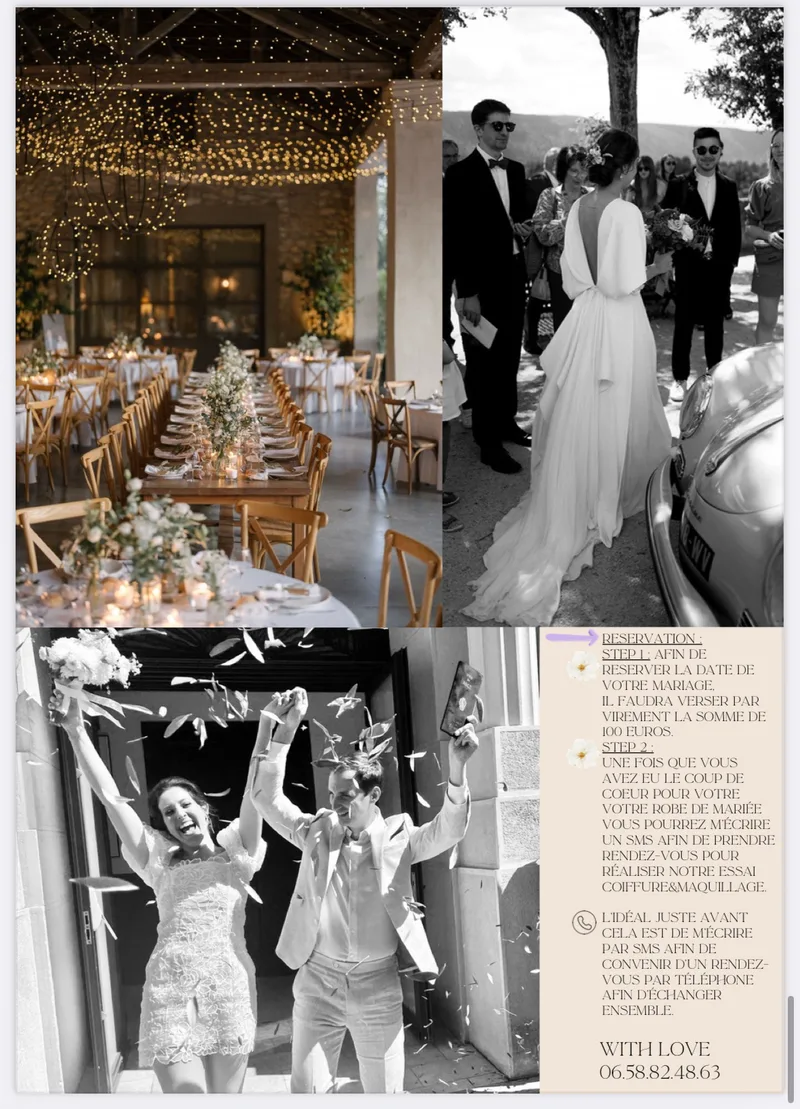
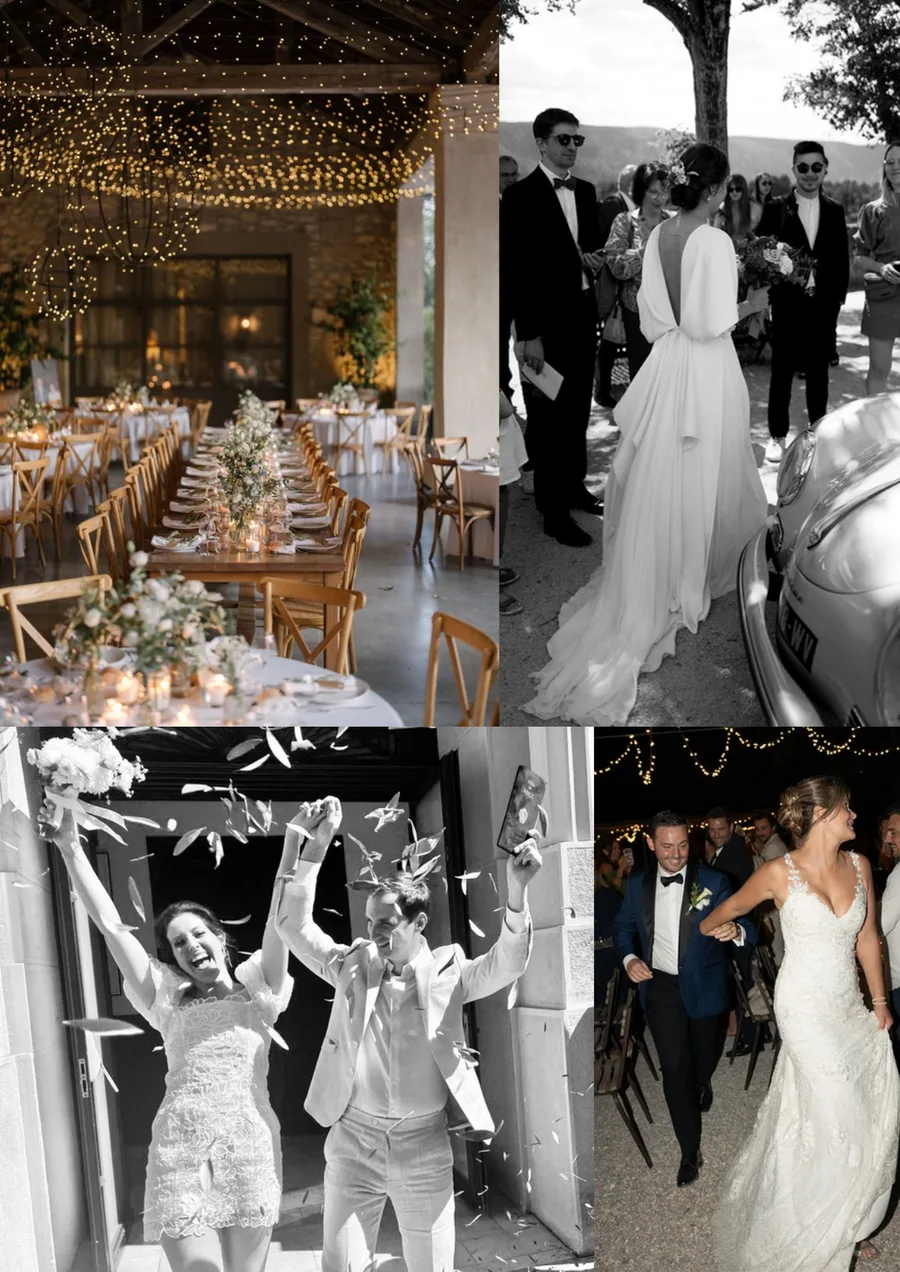
Elody Bliss : nouvelle photo de fin sur la page Contact, telephone au format international partout

diff --git a/clients/elody-bliss/contact.html b/clients/elody-bliss/contact.html
@@ -608,12 +608,12 @@ html body .cta-band p,html body footer p,html body footer li,html body footer a{
 <h2 style="margin-bottom:8px" data-i18n="ct_res_h">How to book your date</h2>
 </div>
 <div class="galerie-clic" style="display:grid;grid-template-columns:repeat(auto-fit,minmax(280px,1fr));gap:32px;align-items:center;margin-top:24px">
-<img src="images/contact-reservation.webp" alt="Reservation d'une date de mariage avec Elody Bliss, mode d'emploi" width="800" height="1109" loading="lazy" decoding="async" style="width:100%;height:auto;border-radius:8px;cursor:pointer" onclick="openLightbox(this)">
+<img src="images/contact-reservation.webp" alt="Wedding moments styled by Elody Bliss" width="900" height="1272" loading="lazy" decoding="async" style="width:100%;height:auto;border-radius:8px;cursor:pointer" onclick="openLightbox(this)">
 <div>
 <p data-i18n="ct_res_1"><strong>Step 1.</strong> To secure your wedding date, a 100&nbsp;euro deposit is paid by bank transfer.</p>
 <p data-i18n="ct_res_2"><strong>Step 2.</strong> Once you have fallen in love with your wedding dress, text me to arrange your hair and makeup trial appointment.</p>
 <p data-i18n="ct_res_3">Ideally, just before that, send me a text so we can set up a phone call and talk through your wishes together.</p>
-<p style="margin-bottom:0"><a href="tel:+33658824863" class="btn-primary" style="margin-top:8px"><i data-lucide="phone" style="width:18px;height:18px"></i> 06 58 82 48 63</a></p>
+<p style="margin-bottom:0"><a href="tel:+33658824863" class="btn-primary" style="margin-top:8px"><i data-lucide="phone" style="width:18px;height:18px"></i> +33 6 58 82 48 63</a></p>
 </div>
 </div>
 </div>
@@ -653,7 +653,7 @@ html body .cta-band p,html body footer p,html body footer li,html body footer a{
 <div>
 <h4>Contact</h4>
 <ul>
-<li><a href="tel:+33658824863"><i data-lucide="phone" style="width:14px;height:14px;vertical-align:middle"></i> 06 58 82 48 63</a></li>
+<li><a href="tel:+33658824863"><i data-lucide="phone" style="width:14px;height:14px;vertical-align:middle"></i> +33 6 58 82 48 63</a></li>
 <li><a href="mailto:elodybliss@gmail.com"><i data-lucide="mail" style="width:14px;height:14px;vertical-align:middle"></i> elodybliss@gmail.com</a></li>
 <li><i data-lucide="map-pin" style="width:14px;height:14px;vertical-align:middle"></i> Av. de Saint-Jerome, 13013 Marseille</li>
 <li data-i18n="ft_appt"><i data-lucide="clock" style="width:14px;height:14px;vertical-align:middle"></i> By appointment</li>

diff --git a/clients/elody-bliss/index.html b/clients/elody-bliss/index.html
@@ -801,7 +801,7 @@ html body .cta-band p,html body footer p,html body footer li,html body footer a{
 <h2 class="titre-xl" data-i18n="pfc_h2">Book your date with <span class="script">Elody</span></h2>
 <p style="max-width:560px;margin:12px auto 28px" data-i18n="pfc_p">Call me to talk about your theme, your wishes and book your trial in my private studio in Marseille.</p>
 <div style="display:flex;gap:16px;justify-content:center;flex-wrap:wrap">
-<a href="tel:+33658824863" class="btn-primary" aria-label="Appeler Elody Bliss"><i data-lucide="phone" style="width:18px;height:18px"></i> 06 58 82 48 63</a>
+<a href="tel:+33658824863" class="btn-primary" aria-label="Appeler Elody Bliss"><i data-lucide="phone" style="width:18px;height:18px"></i> +33 6 58 82 48 63</a>
 <a href="/contact" class="btn-secondary" aria-label="Aller au formulaire de contact" data-i18n="pfc_btn"><i data-lucide="mail" style="width:18px;height:18px"></i> Contact form</a>
 </div>
 </div>
@@ -852,7 +852,7 @@ html body .cta-band p,html body footer p,html body footer li,html body footer a{
 <div>
 <h4>Contact</h4>
 <ul>
-<li><a href="tel:+33658824863"><i data-lucide="phone" style="width:14px;height:14px;vertical-align:middle"></i> 06 58 82 48 63</a></li>
+<li><a href="tel:+33658824863"><i data-lucide="phone" style="width:14px;height:14px;vertical-align:middle"></i> +33 6 58 82 48 63</a></li>
 <li><a href="mailto:elodybliss@gmail.com"><i data-lucide="mail" style="width:14px;height:14px;vertical-align:middle"></i> elodybliss@gmail.com</a></li>
 <li><i data-lucide="map-pin" style="width:14px;height:14px;vertical-align:middle"></i> Av. de Saint-Jerome, 13013 Marseille</li>
 <li data-i18n="ft_appt"><i data-lucide="clock" style="width:14px;height:14px;vertical-align:middle"></i> By appointment</li>

diff --git a/clients/elody-bliss/massage-hair-spa.html b/clients/elody-bliss/massage-hair-spa.html
@@ -596,7 +596,7 @@ html body .cta-band p,html body footer p,html body footer li,html body footer a{
 <div style="text-align:center;margin-top:40px;padding:40px;background:var(--bg-secondary);border-radius:12px">
 <h2 data-i18n="ms_cta_h">Book your well-being treatment</h2>
 <p data-i18n="ms_cta_p">Treat yourself to a gentle luxury moment in the private studio in Marseille.</p>
-<a href="tel:+33658824863" class="btn-primary"><i data-lucide="phone" style="width:18px;height:18px"></i> 06 58 82 48 63</a>
+<a href="tel:+33658824863" class="btn-primary"><i data-lucide="phone" style="width:18px;height:18px"></i> +33 6 58 82 48 63</a>
 </div>
 </div></div></section>
 <section><div class="container" data-aos="fade-up"><h2 style="text-align:center;margin-bottom:8px" data-i18n="ms_disc_h">Discover also</h2><div class="discover-grid">
@@ -638,7 +638,7 @@ html body .cta-band p,html body footer p,html body footer li,html body footer a{
 <div>
 <h4>Contact</h4>
 <ul>
-<li><a href="tel:+33658824863"><i data-lucide="phone" style="width:14px;height:14px;vertical-align:middle"></i> 06 58 82 48 63</a></li>
+<li><a href="tel:+33658824863"><i data-lucide="phone" style="width:14px;height:14px;vertical-align:middle"></i> +33 6 58 82 48 63</a></li>
 <li><a href="mailto:elodybliss@gmail.com"><i data-lucide="mail" style="width:14px;height:14px;vertical-align:middle"></i> elodybliss@gmail.com</a></li>
 <li><i data-lucide="map-pin" style="width:14px;height:14px;vertical-align:middle"></i> Av. de Saint-Jerome, 13013 Marseille</li>
 <li data-i18n="ft_appt"><i data-lucide="clock" style="width:14px;height:14px;vertical-align:middle"></i> By appointment</li>

diff --git a/clients/elody-bliss/coloration.html b/clients/elody-bliss/coloration.html
@@ -589,7 +589,7 @@ html body .cta-band p,html body footer p,html body footer li,html body footer a{
 <div style="text-align:center;margin-top:40px;padding:40px;background:var(--bg-secondary);border-radius:12px">
 <h2 data-i18n="col_cta_h">Book an appointment for your color</h2>
 <p data-i18n="col_cta_p">Give your hair a luminous, healthy color.</p>
-<a href="tel:+33658824863" class="btn-primary"><i data-lucide="phone" style="width:18px;height:18px"></i> 06 58 82 48 63</a>
+<a href="tel:+33658824863" class="btn-primary"><i data-lucide="phone" style="width:18px;height:18px"></i> +33 6 58 82 48 63</a>
 </div>
 </div></div></section>
 <section><div class="container" data-aos="fade-up"><h2 style="text-align:center;margin-bottom:8px" data-i18n="col_disc_h">Discover also</h2><div class="discover-grid">
@@ -631,7 +631,7 @@ html body .cta-band p,html body footer p,html body footer li,html body footer a{
 <div>
 <h4>Contact</h4>
 <ul>
-<li><a href="tel:+33658824863"><i data-lucide="phone" style="width:14px;height:14px;vertical-align:middle"></i> 06 58 82 48 63</a></li>
+<li><a href="tel:+33658824863"><i data-lucide="phone" style="width:14px;height:14px;vertical-align:middle"></i> +33 6 58 82 48 63</a></li>
 <li><a href="mailto:elodybliss@gmail.com"><i data-lucide="mail" style="width:14px;height:14px;vertical-align:middle"></i> elodybliss@gmail.com</a></li>
 <li><i data-lucide="map-pin" style="width:14px;height:14px;vertical-align:middle"></i> Av. de Saint-Jerome, 13013 Marseille</li>
 <li data-i18n="ft_appt"><i data-lucide="clock" style="width:14px;height:14px;vertical-align:middle"></i> By appointment</li>

diff --git a/clients/elody-bliss/maquillage-mariee.html b/clients/elody-bliss/maquillage-mariee.html
@@ -667,7 +667,7 @@ html body .cta-band p,html body footer p,html body footer li,html body footer a{
 <h2 data-i18n="mq_cta_h">Book your makeup trial</h2>
 <p data-i18n="mq_cta_p">Your big day deserves the best version of yourself.</p>
 <div style="display:flex;gap:16px;justify-content:center;flex-wrap:wrap;margin-top:20px">
-<a href="tel:+33658824863" class="btn-primary"><i data-lucide="phone" style="width:18px;height:18px"></i> 06 58 82 48 63</a>
+<a href="tel:+33658824863" class="btn-primary"><i data-lucide="phone" style="width:18px;height:18px"></i> +33 6 58 82 48 63</a>
 <a href="/contact" class="btn-secondary" aria-label="Formulaire de contact" data-i18n="mq_cta_form"><i data-lucide="mail" style="width:18px;height:18px"></i> Contact form</a>
 </div>
 </div>
@@ -718,7 +718,7 @@ html body .cta-band p,html body footer p,html body footer li,html body footer a{
 <div>
 <h4>Contact</h4>
 <ul>
-<li><a href="tel:+33658824863"><i data-lucide="phone" style="width:14px;height:14px;vertical-align:middle"></i> 06 58 82 48 63</a></li>
+<li><a href="tel:+33658824863"><i data-lucide="phone" style="width:14px;height:14px;vertical-align:middle"></i> +33 6 58 82 48 63</a></li>
 <li><a href="mailto:elodybliss@gmail.com"><i data-lucide="mail" style="width:14px;height:14px;vertical-align:middle"></i> elodybliss@gmail.com</a></li>
 <li><i data-lucide="map-pin" style="width:14px;height:14px;vertical-align:middle"></i> Av. de Saint-Jerome, 13013 Marseille</li>
 <li data-i18n="ft_appt"><i data-lucide="clock" style="width:14px;height:14px;vertical-align:middle"></i> By appointment</li>

diff --git a/clients/elody-bliss/faq.html b/clients/elody-bliss/faq.html
@@ -570,7 +570,7 @@ html body .cta-band p,html body footer p,html body footer li,html body footer a{
 <h2 data-i18n="fq_cta_h">A question that is not here?</h2>
 <p data-i18n="fq_cta_p">Write to me, I answer quickly.</p>
 <div style="display:flex;gap:16px;justify-content:center;flex-wrap:wrap;margin-top:20px">
-<a href="tel:+33658824863" class="btn-primary"><i data-lucide="phone" style="width:18px;height:18px"></i> 06 58 82 48 63</a>
+<a href="tel:+33658824863" class="btn-primary"><i data-lucide="phone" style="width:18px;height:18px"></i> +33 6 58 82 48 63</a>
 <a href="/contact" class="btn-secondary" data-i18n="fq_cta_form"><i data-lucide="mail" style="width:18px;height:18px"></i> Contact form</a>
 </div>
 </div>
@@ -610,7 +610,7 @@ html body .cta-band p,html body footer p,html body footer li,html body footer a{
 <div>
 <h4>Contact</h4>
 <ul>
-<li><a href="tel:+33658824863"><i data-lucide="phone" style="width:14px;height:14px;vertical-align:middle"></i> 06 58 82 48 63</a></li>
+<li><a href="tel:+33658824863"><i data-lucide="phone" style="width:14px;height:14px;vertical-align:middle"></i> +33 6 58 82 48 63</a></li>
 <li><a href="mailto:elodybliss@gmail.com"><i data-lucide="mail" style="width:14px;height:14px;vertical-align:middle"></i> elodybliss@gmail.com</a></li>
 <li><i data-lucide="map-pin" style="width:14px;height:14px;vertical-align:middle"></i> Av. de Saint-Jerome, 13013 Marseille</li>
 <li data-i18n="ft_appt"><i data-lucide="clock" style="width:14px;height:14px;vertical-align:middle"></i> By appointment</li>

diff --git a/clients/elody-bliss/coiffure-mariee.html b/clients/elody-bliss/coiffure-mariee.html
@@ -637,7 +637,7 @@ html body .cta-band p,html body footer p,html body footer li,html body footer a{
 <div style="text-align:center;margin-top:40px;padding:40px;background:var(--bg-secondary);border-radius:12px">
 <h2 data-i18n="cf_cta_h">Book your hairstyle and makeup appointment</h2>
 <p data-i18n="cf_cta_p">Every bridal hairstyle deserves to be tested and validated before the big day.</p>
-<a href="tel:+33658824863" class="btn-primary"><i data-lucide="phone" style="width:18px;height:18px"></i> 06 58 82 48 63</a>
+<a href="tel:+33658824863" class="btn-primary"><i data-lucide="phone" style="width:18px;height:18px"></i> +33 6 58 82 48 63</a>
 </div>
 
 </div></div></section>
@@ -680,7 +680,7 @@ html body .cta-band p,html body footer p,html body footer li,html body footer a{
 <div>
 <h4>Contact</h4>
 <ul>
-<li><a href="tel:+33658824863"><i data-lucide="phone" style="width:14px;height:14px;vertical-align:middle"></i> 06 58 82 48 63</a></li>
+<li><a href="tel:+33658824863"><i data-lucide="phone" style="width:14px;height:14px;vertical-align:middle"></i> +33 6 58 82 48 63</a></li>
 <li><a href="mailto:elodybliss@gmail.com"><i data-lucide="mail" style="width:14px;height:14px;vertical-align:middle"></i> elodybliss@gmail.com</a></li>
 <li><i data-lucide="map-pin" style="width:14px;height:14px;vertical-align:middle"></i> Av. de Saint-Jerome, 13013 Marseille</li>
 <li data-i18n="ft_appt"><i data-lucide="clock" style="width:14px;height:14px;vertical-align:middle"></i> By appointment</li>

diff --git a/clients/elody-bliss/mariages.html b/clients/elody-bliss/mariages.html
@@ -1069,7 +1069,7 @@ html body .cta-band p,html body footer p,html body footer li,html body footer a{
 <div>
 <h4>Contact</h4>
 <ul>
-<li><a href="tel:+33658824863"><i data-lucide="phone" style="width:14px;height:14px;vertical-align:middle"></i> 06 58 82 48 63</a></li>
+<li><a href="tel:+33658824863"><i data-lucide="phone" style="width:14px;height:14px;vertical-align:middle"></i> +33 6 58 82 48 63</a></li>
 <li><a href="mailto:elodybliss@gmail.com"><i data-lucide="mail" style="width:14px;height:14px;vertical-align:middle"></i> elodybliss@gmail.com</a></li>
 <li><i data-lucide="map-pin" style="width:14px;height:14px;vertical-align:middle"></i> Av. de Saint-Jerome, 13013 Marseille</li>
 <li data-i18n="ft_appt"><i data-lucide="clock" style="width:14px;height:14px;vertical-align:middle"></i> By appointment</li>

diff --git a/clients/elody-bliss/a-propos.html b/clients/elody-bliss/a-propos.html
@@ -707,7 +707,7 @@ s.addEventListener('mouseenter',arrete);s.addEventListener('mouseleave',function
 <div>
 <h4>Contact</h4>
 <ul>
-<li><a href="tel:+33658824863"><i data-lucide="phone" style="width:14px;height:14px;vertical-align:middle"></i> 06 58 82 48 63</a></li>
+<li><a href="tel:+33658824863"><i data-lucide="phone" style="width:14px;height:14px;vertical-align:middle"></i> +33 6 58 82 48 63</a></li>
 <li><a href="mailto:elodybliss@gmail.com"><i data-lucide="mail" style="width:14px;height:14px;vertical-align:middle"></i> elodybliss@gmail.com</a></li>
 <li><i data-lucide="map-pin" style="width:14px;height:14px;vertical-align:middle"></i> Av. de Saint-Jerome, 13013 Marseille</li>
 <li data-i18n="ft_appt"><i data-lucide="clock" style="width:14px;height:14px;vertical-align:middle"></i> By appointment</li>

diff --git a/clients/elody-bliss/mentions-legales.html b/clients/elody-bliss/mentions-legales.html
@@ -583,7 +583,7 @@ html body .cta-band p,html body footer p,html body footer li,html body footer a{
 <div>
 <h4>Contact</h4>
 <ul>
-<li><a href="tel:+33658824863"><i data-lucide="phone" style="width:14px;height:14px;vertical-align:middle"></i> 06 58 82 48 63</a></li>
+<li><a href="tel:+33658824863"><i data-lucide="phone" style="width:14px;height:14px;vertical-align:middle"></i> +33 6 58 82 48 63</a></li>
 <li><a href="mailto:elodybliss@gmail.com"><i data-lucide="mail" style="width:14px;height:14px;vertical-align:middle"></i> elodybliss@gmail.com</a></li>
 <li><i data-lucide="map-pin" style="width:14px;height:14px;vertical-align:middle"></i> Av. de Saint-Jerome, 13013 Marseille</li>
 <li data-i18n="ft_appt"><i data-lucide="clock" style="width:14px;height:14px;vertical-align:middle"></i> By appointment</li>

diff --git a/clients/elody-bliss/politique-confidentialite.html b/clients/elody-bliss/politique-confidentialite.html
@@ -583,7 +583,7 @@ html body .cta-band p,html body footer p,html body footer li,html body footer a{
 <div>
 <h4>Contact</h4>
 <ul>
-<li><a href="tel:+33658824863"><i data-lucide="phone" style="width:14px;height:14px;vertical-align:middle"></i> 06 58 82 48 63</a></li>
+<li><a href="tel:+33658824863"><i data-lucide="phone" style="width:14px;height:14px;vertical-align:middle"></i> +33 6 58 82 48 63</a></li>
 <li><a href="mailto:elodybliss@gmail.com"><i data-lucide="mail" style="width:14px;height:14px;vertical-align:middle"></i> elodybliss@gmail.com</a></li>
 <li><i data-lucide="map-pin" style="width:14px;height:14px;vertical-align:middle"></i> Av. de Saint-Jerome, 13013 Marseille</li>
 <li data-i18n="ft_appt"><i data-lucide="clock" style="width:14px;height:14px;vertical-align:middle"></i> By appointment</li>
